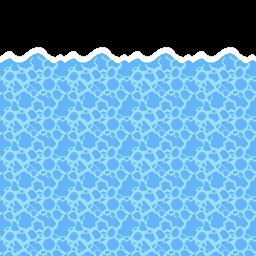
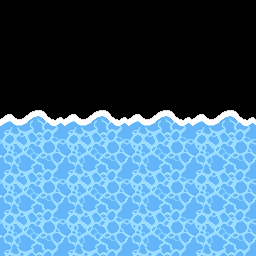
surf move animation

diff --git a/src/animations/animation_sprite_data.c b/src/animations/animation_sprite_data.c
@@ -79,6 +79,10 @@
 #include "../../generated/images/battle_animations/protect.h"
 #include "../../generated/images/battle_animations/mist.h"
 #include "../../generated/images/battle_animations/hydropump.h"
+#include "../../generated/images/battle_animations/surf_player_left.h"
+#include "../../generated/images/battle_animations/surf_player_right.h"
+#include "../../generated/images/battle_animations/surf_opp_left.h"
+#include "../../generated/images/battle_animations/surf_opp_right.h"
 
 
 /* the impact sprite from tackle */
@@ -1408,3 +1412,24 @@ MAKE_OAM(biteflipped)
     OAM_PRIORITY(3)
     OAM_SIZE(o64x64)
 END_OAM()
+
+
+/* Surf OAMs */
+ASSETS(surf_player_left, s64x64, 476);
+ASSETS(surf_opp_left, s64x64, 476);
+ASSETS(surf_player_right, s64x64, 477);
+ASSETS(surf_opp_right, s64x64, 477);
+
+MAKE_OAM(surf_player_left)
+    OAM_AFFINE()
+    OAM_SEMI_TRANSPARENT()
+    OAM_PRIORITY(1)
+    OAM_SIZE(o64x64)
+END_OAM()
+
+BEGIN_AFFINE_ANIM(surf_player_left)
+    PLAY_AFFINE(50, -150, 0, 1)
+    PLAY_AFFINE(-10, 10, 0, 10)
+    PLAY_AFFINE(0, 0, 0, 10)
+    PLAY_AFFINE(10, -10, 0, 15)
+END_AFFINE()
